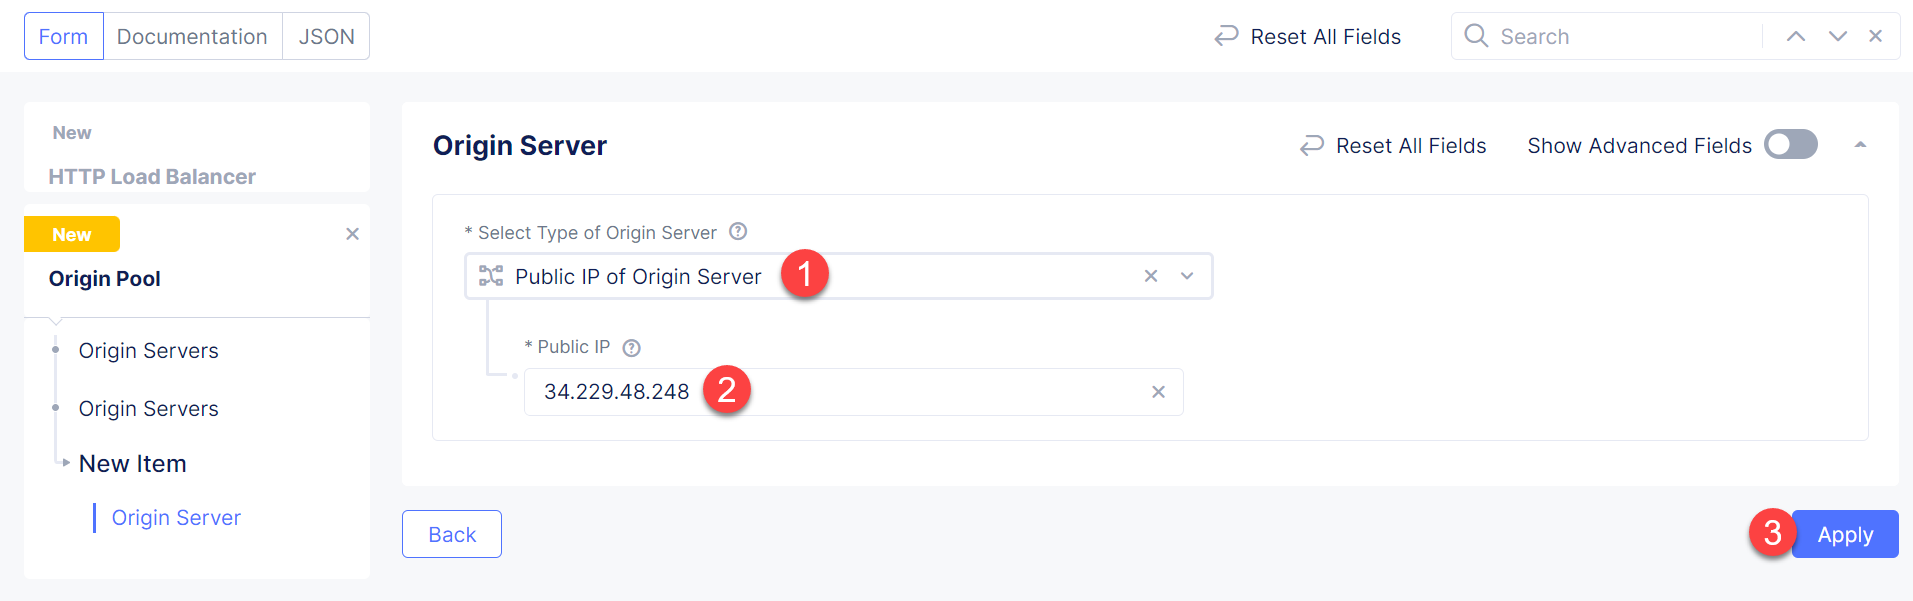
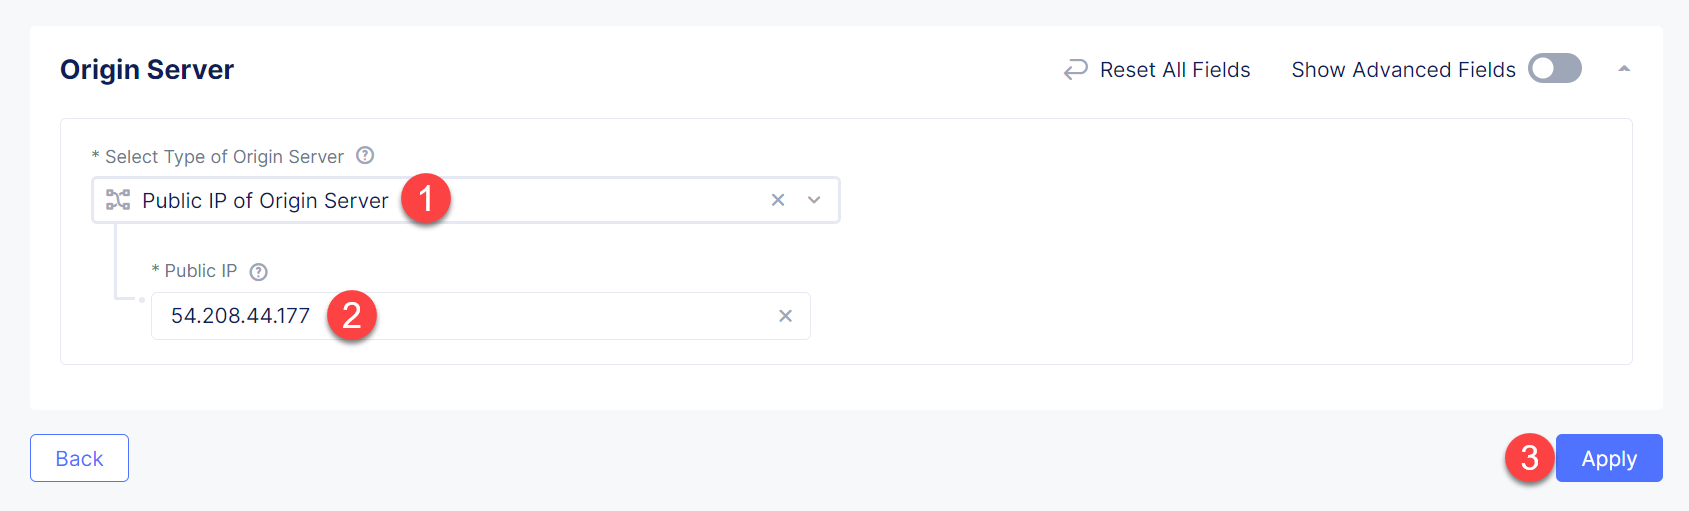
update demo app ip

diff --git a/README.rst b/README.rst
@@ -64,7 +64,7 @@ Now click **Add Item** to start configuring an origin server.
 
 .. figure:: assets/lb_add_origin_4.png
 
-Let's now configure origin server. First open the drop-down menu to specify the type of origin server. For this demo select **Public IP of Origin Server**. Then specify the Public IP - **34.229.48.248**. Complete by clicking **Apply**.
+Let's now configure origin server. First open the drop-down menu to specify the type of origin server. For this demo select **Public IP of Origin Server**. Then specify the Public IP - **54.208.44.177**. Complete by clicking **Apply**.
 
 .. figure:: assets/lb_add_origin_5.png
 
@@ -97,6 +97,8 @@ Now we need to copy the host name. Open the menu of HTTP Load Balancer we've jus
 .. figure:: assets/lb_dns_1.png
 
 Copy the host name you see in the configuration. Host name will be used as CNAME value for the domain. After copying the host name, move on and copy CNAME value. It will be used to create an HTTPS certificate.
+
+NOTE: You can skip these steps if you have `delegated your DNS domain<https://docs.cloud.f5.com/docs/how-to/app-networking/domain-delegation>`_ to F5® Distributed Cloud Services.
 
 .. figure:: assets/lb_dns_2.png
 
@@ -148,6 +150,8 @@ You will see the CDN configuration. Click **Save and Exit** to save the configur
 .. figure:: assets/cdn_create_7.png
 
 You can see the CDN we just created. Now that we've created a CDN, we can need to activate the certificate by specifying DNS records. Open the configuration menu and select **Manage Configuration**.
+
+NOTE: You can skip these steps if you have `delegated your DNS domain<https://docs.cloud.f5.com/docs/how-to/app-networking/domain-delegation>`_ to F5® Distributed Cloud Services.
 
 .. figure:: assets/cdn_dns_1.png
 
